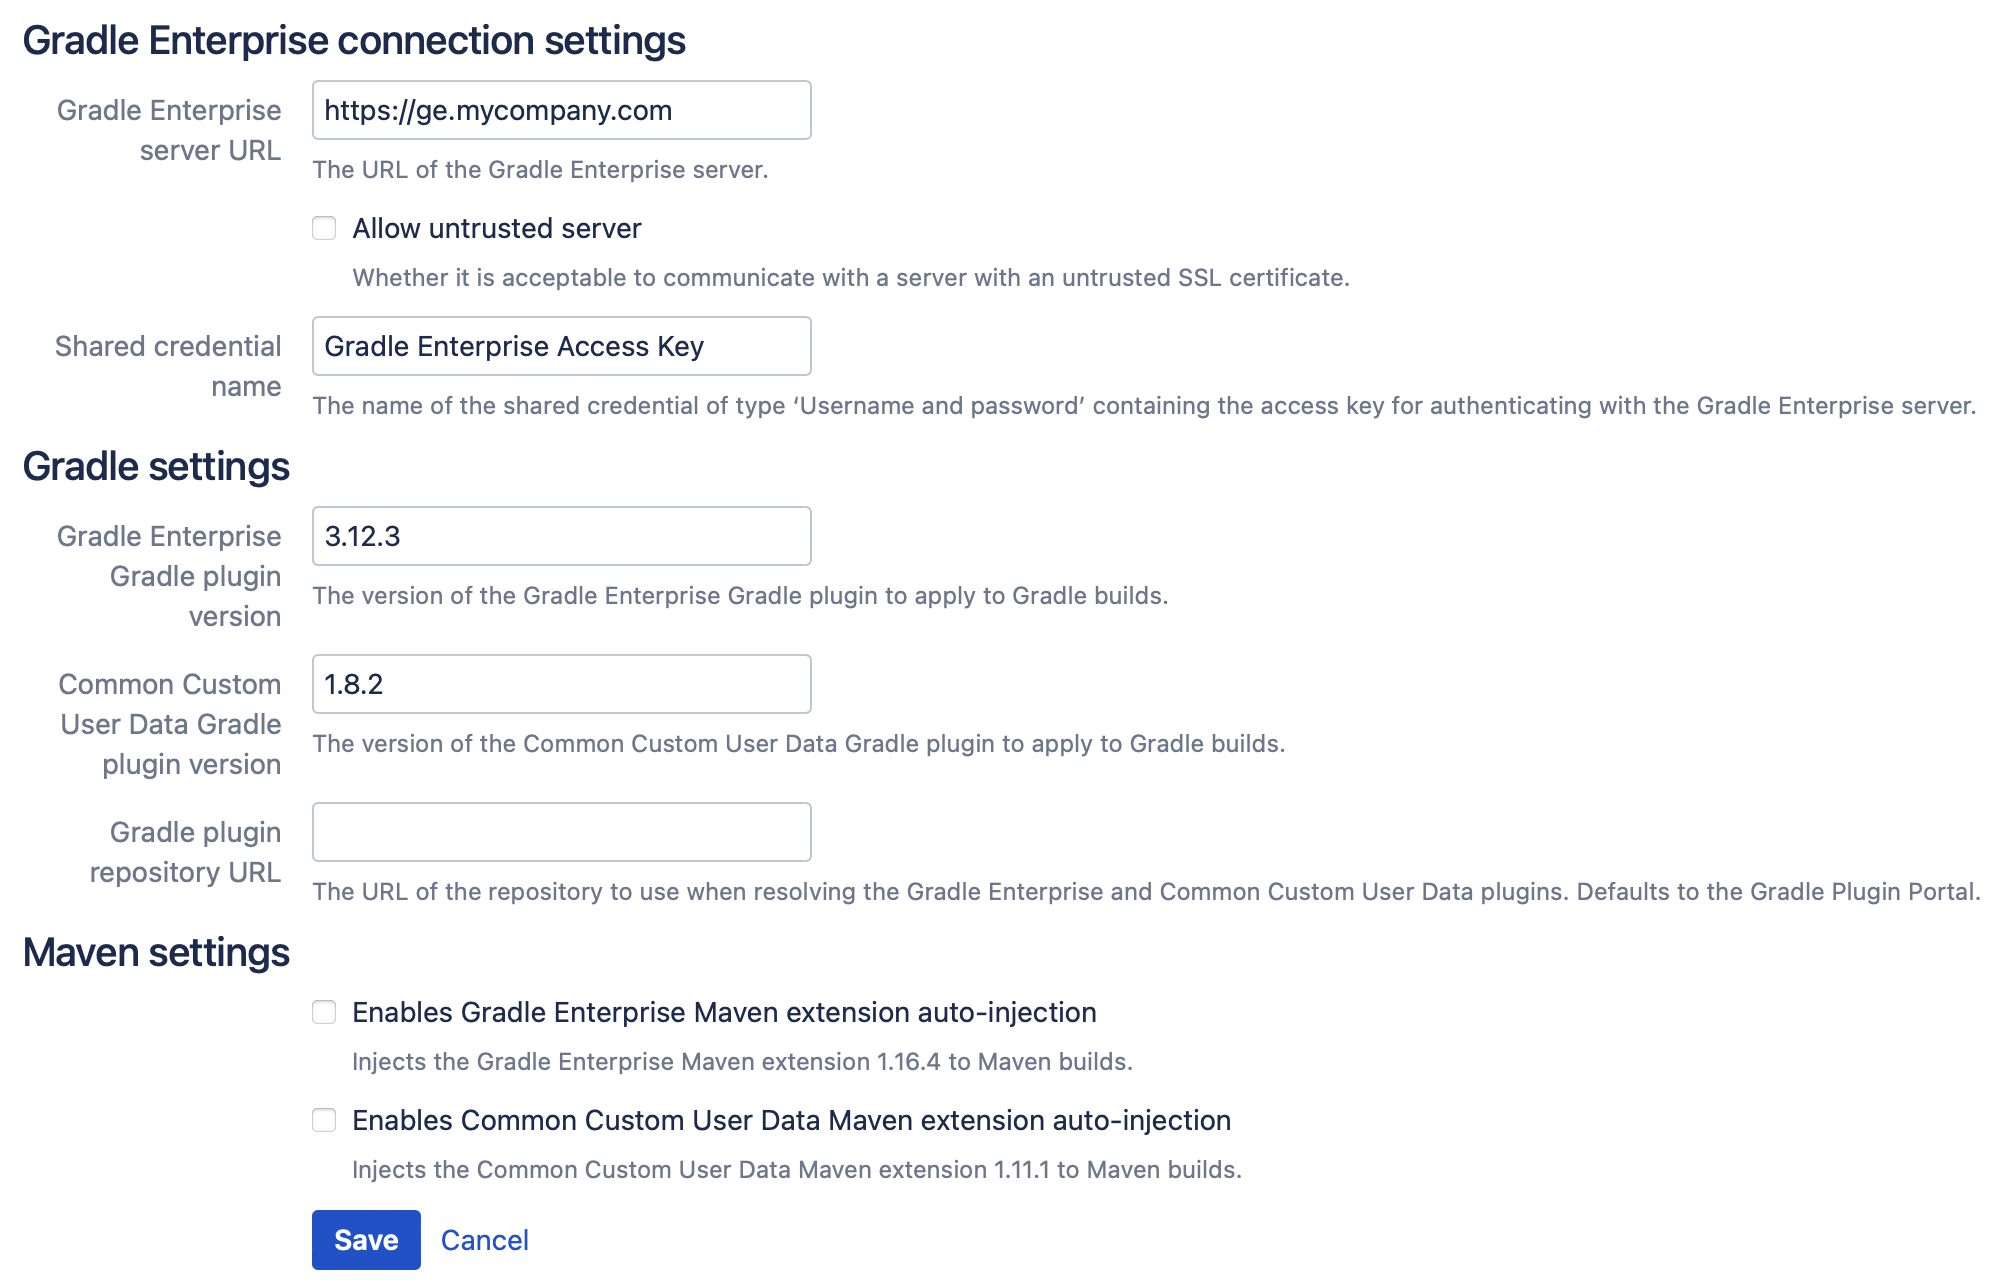
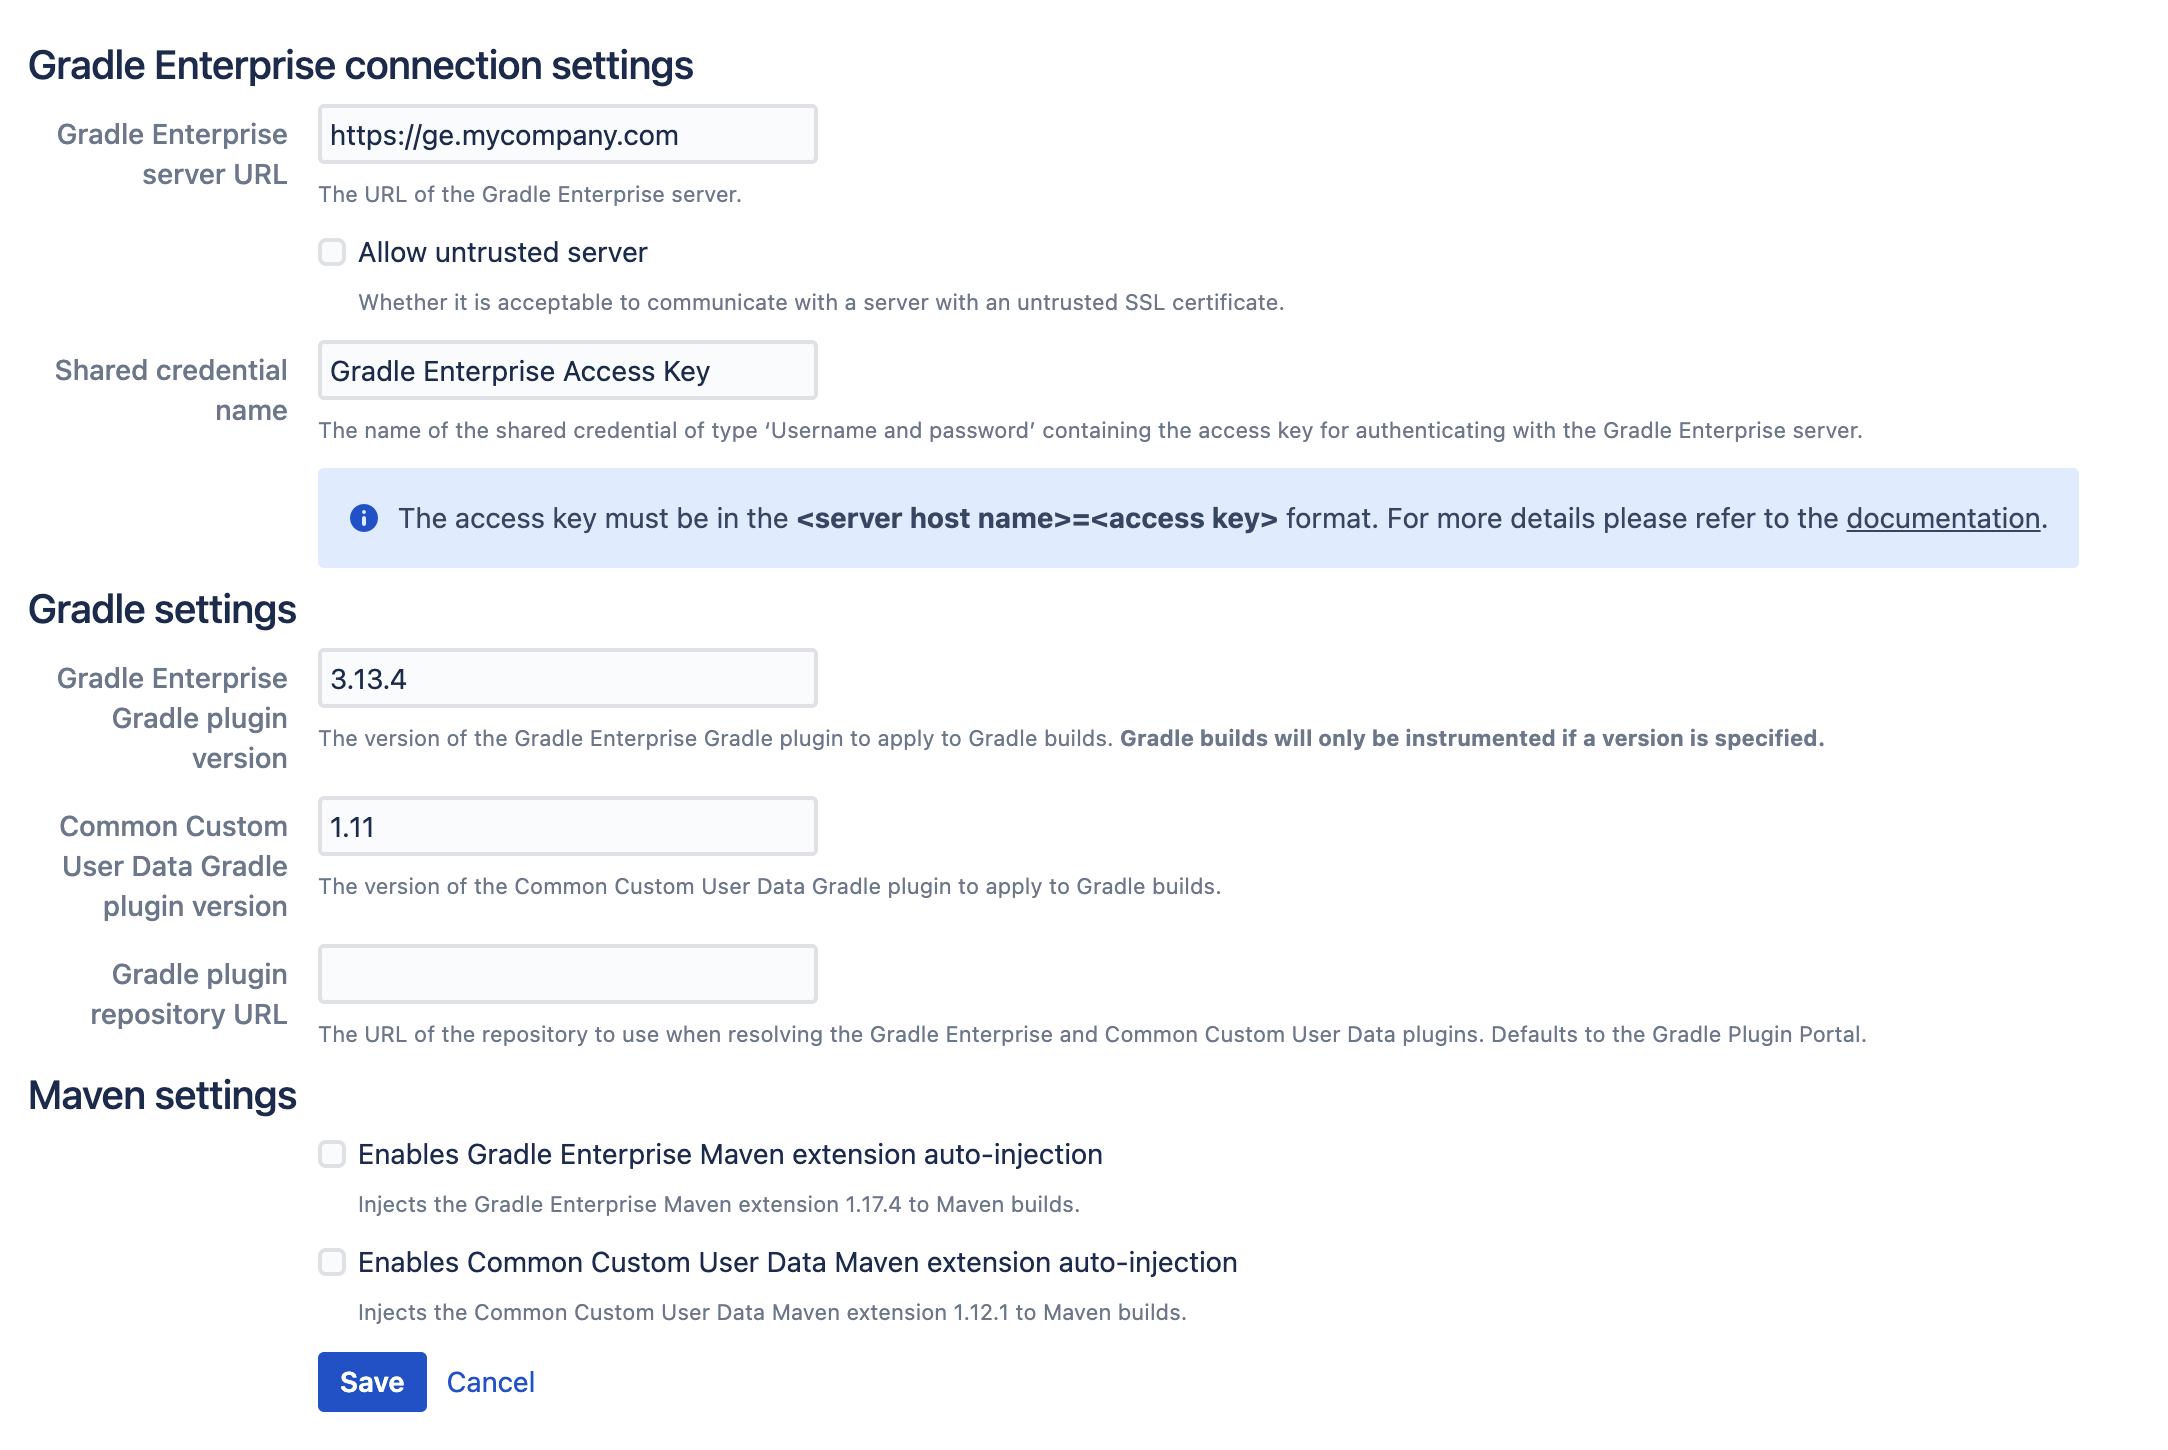
Improve help message and the documentation  (#47)
* Update Maven version

* Update Gradle Enterprise Maven extension version

* Improve help message

* Update screenshots to reflect latest changes

* Improve readme

* Improve readme

* Improve readme

* Update agent jar url

* Use different agent path depending on a bamboo version

* Fix imports

Changed region(s): [[0.0, 0.0, 0.995, 0.7788], [0.1244, 0.7788, 0.6219, 0.9969], [0.4664, 0.4361, 0.5908, 0.4673]]

diff --git a/src/test/java/com/gradle/enterprise/bamboo/BambooApi.java b/src/test/java/com/gradle/enterprise/bamboo/BambooApi.java
@@ -150,13 +150,14 @@ public final class BambooApi implements AutoCloseable {
 
     public File downloadAgentJar() {
         Version bambooVersion = getBambooVersion();
-        String bambooAgent = "bamboo-agent-" + bambooVersion + ".jar";
+        String agentPath = bambooVersion.getMajor() >= 8 ? "/agentServer/agentInstaller/" : "/admin/agent/";
+        String agentJar = "bamboo-agent-" + bambooVersion + ".jar";
 
         try {
             File tmp = Files.createTempDirectory("bambooAgent").toFile();
-            File tmpAgentJar = new File(tmp, bambooAgent);
+            File tmpAgentJar = new File(tmp, agentJar);
 
-            FileUtils.copyURLToFile(new URL(bambooUrl + "/admin/agent/" + bambooAgent), tmpAgentJar);
+            FileUtils.copyURLToFile(new URL(bambooUrl + agentPath + agentJar), tmpAgentJar);
 
             return tmpAgentJar;
         } catch (IOException e) {

diff --git a/src/test/java/com/gradle/enterprise/bamboo/MavenEmbeddedResourcesTest.java b/src/test/java/com/gradle/enterprise/bamboo/MavenEmbeddedResourcesTest.java
@@ -29,7 +29,7 @@ public class MavenEmbeddedResourcesTest {
      */
     @ParameterizedTest
     @CsvSource({
-            "GE_EXTENSION, 8c51243132d96ace8159c112abc21a18",
+            "GE_EXTENSION, 42e3d70bd641e414829a1a23c5bd0916",
             "CCUD_EXTENSION, f4802380dd87ceaf4047874d0cfaeca9"
     })
     void copiesEmbeddedExtension(MavenEmbeddedResources.Resource resource, String expectedChecksum) throws Exception {
